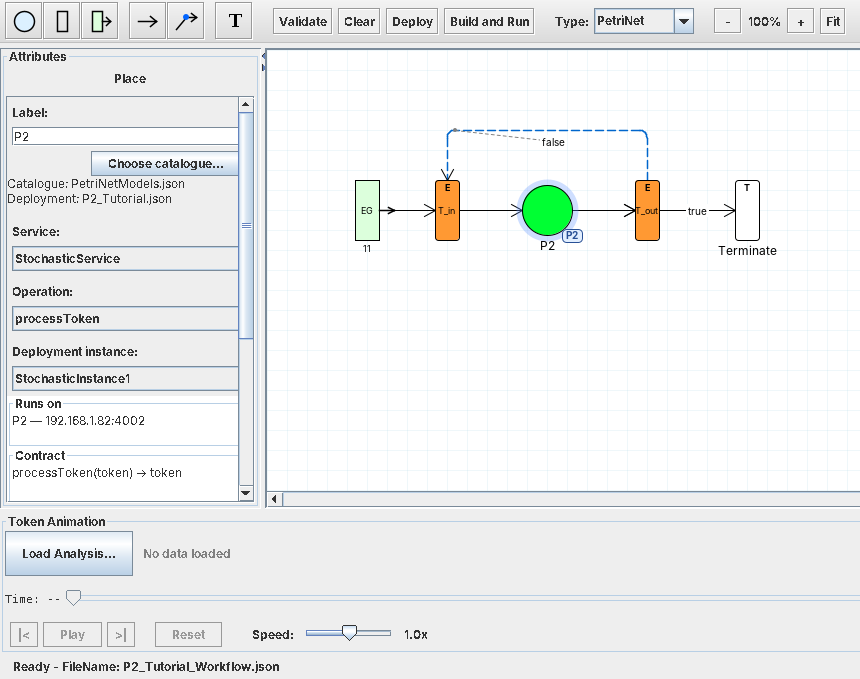
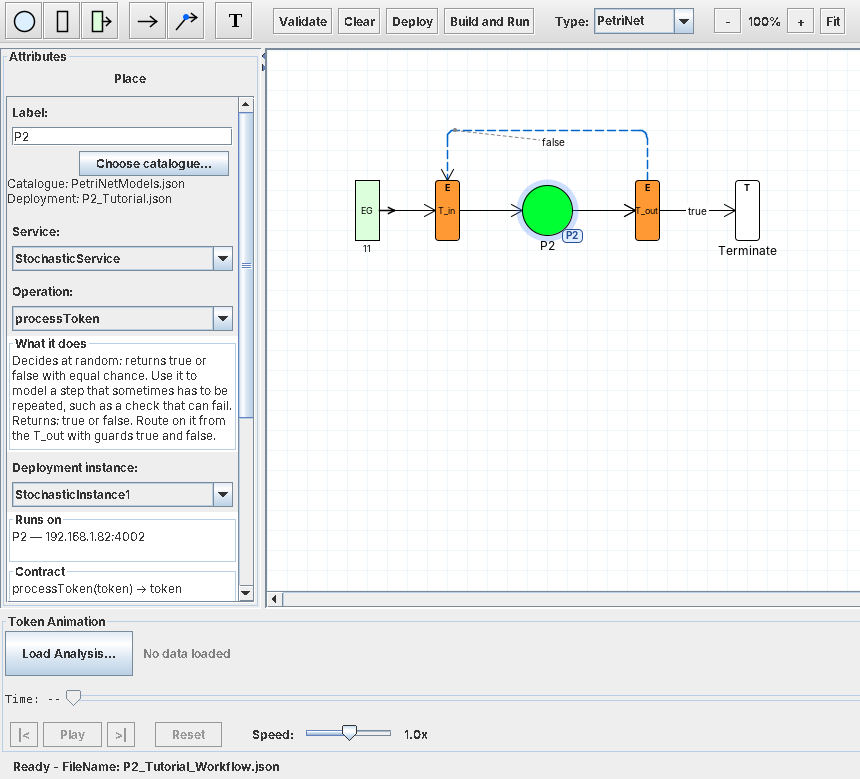
Say what each service does: catalogue descriptions shown in the editor
- Every catalogue operation now has a "description" (what it does) and a
  "returns" entry (its result and the values to route on), written from the
  implementations.
- Attributes panel: a "What it does" box under the Operation, sized to the
  wrapped text and re-measured when the panel is resized; Service and Operation
  choices show the description on hover.
- Deploy panel: Service and Operation cells and choices show it on hover.
- The Attributes panel now fits its scroll area's width, so long text wraps and
  the drop-down arrows are no longer clipped.
- ServiceRegistryCheck requires both entries for every catalogued operation;
  DeployFlowCheck checks the box is shown.
- Tutorial: points readers to the box; the incorrect "acceptance delay" note is removed.

Claude-Session: https://claude.ai/code/session_0151nDw2DdARiuD7yvK629N9

diff --git a/btsn.workflowEditor/src/com/editor/EditorFrame.java b/btsn.workflowEditor/src/com/editor/EditorFrame.java
@@ -81,7 +81,7 @@ public class EditorFrame extends JPanel {
         add(titleLabel, BorderLayout.NORTH);
         
         // Attributes panel
-        attributesPanel = new JPanel();
+        attributesPanel = new ViewportWidthPanel();
         attributesPanel.setLayout(new BoxLayout(attributesPanel, BoxLayout.Y_AXIS));
         JScrollPane scrollPane = new JScrollPane(attributesPanel);
         scrollPane.setVerticalScrollBarPolicy(JScrollPane.VERTICAL_SCROLLBAR_AS_NEEDED);
@@ -736,7 +736,7 @@ public class EditorFrame extends JPanel {
         source.setEditable(false); source.setOpaque(false); source.setLineWrap(true); source.setWrapStyleWord(true);
         source.setPreferredSize(new Dimension(220, 40)); source.setMinimumSize(new Dimension(0, 40)); source.setMaximumSize(new Dimension(Integer.MAX_VALUE, 55));
         source.setToolTipText(registry.description()); attributesPanel.add(source);
-        JComboBox<String> services = ServiceRegistry.choices(registry.services(), element.getService());
+        JComboBox<String> services = ServiceRegistry.choices(registry.services(), element.getService(), registry::describe);
         addComboField("Service:", services, element.getService());
         services.addActionListener(e -> {
             String value = (String)services.getSelectedItem();
@@ -747,8 +747,9 @@ public class EditorFrame extends JPanel {
             updateSelection(element); canvas.serviceContractChanged();
         });
         String op = element.getOperations().isEmpty() ? "" : element.getOperations().get(0);
-        JComboBox<String> operations = ServiceRegistry.choices(registry.operations(element.getService()), op);
+        JComboBox<String> operations = ServiceRegistry.choices(registry.operations(element.getService()), op, name -> registry.describe(element.getService(), name));
         addComboField("Operation:", operations, op);
+        addWhatItDoes(registry, element.getService(), op);
         operations.addActionListener(e -> {
             String value = (String)operations.getSelectedItem();
             if (!registry.operations(element.getService()).contains(value)) return;
@@ -790,6 +791,49 @@ public class EditorFrame extends JPanel {
             JTextArea warning = new JTextArea(String.join("\n", errors)); warning.setEditable(false); warning.setLineWrap(true); warning.setWrapStyleWord(true); warning.setForeground(Color.RED);
             warning.setBorder(BorderFactory.createTitledBorder("Unresolved service contract")); attributesPanel.add(warning);
         }
+    }
+
+    /** Fits the scroll area's width, so long text wraps instead of running under the scrollbar. */
+    private static final class ViewportWidthPanel extends JPanel implements Scrollable {
+        public Dimension getPreferredScrollableViewportSize() { return getPreferredSize(); }
+        public int getScrollableUnitIncrement(Rectangle visible, int orientation, int direction) { return 16; }
+        public int getScrollableBlockIncrement(Rectangle visible, int orientation, int direction) { return orientation == SwingConstants.VERTICAL ? visible.height : visible.width; }
+        public boolean getScrollableTracksViewportWidth() { return true; }
+        public boolean getScrollableTracksViewportHeight() { return false; }
+    }
+
+    /** The catalogue's description of the chosen service, shown without hovering. */
+    private void addWhatItDoes(ServiceRegistry registry, String service, String op) {
+        String text;
+        if (service == null || service.isEmpty()) text = "Choose a service to see what it does.";
+        else {
+            text = registry.describe(service, op);
+            if (text.isEmpty()) text = "The catalogue has no description for " + service + ".";
+        }
+        JTextArea box = new JTextArea(text); box.setEditable(false); box.setLineWrap(true); box.setWrapStyleWord(true);
+        box.setBorder(BorderFactory.createTitledBorder("What it does"));
+        box.setToolTipText(ServiceRegistry.tooltip(text));
+        // Measure the wrapped text at the panel's current width (220 before the panel is first shown).
+        Container viewport = attributesPanel.getParent();
+        int width = viewport != null && viewport.getWidth() > 40 ? viewport.getWidth() - 10 : 220;
+        box.setSize(width, Short.MAX_VALUE);
+        int height = box.getPreferredSize().height + 4;
+        fitHeight(box, 220, height);
+        // Re-measure when the panel is resized, so the box never clips or leaves a gap.
+        box.addComponentListener(new java.awt.event.ComponentAdapter() {
+            @Override public void componentResized(java.awt.event.ComponentEvent e) {
+                JTextArea measure = new JTextArea(box.getText()); measure.setLineWrap(true); measure.setWrapStyleWord(true);
+                measure.setFont(box.getFont()); measure.setBorder(box.getBorder());
+                measure.setSize(box.getWidth(), Short.MAX_VALUE);
+                int fitted = measure.getPreferredSize().height + 4;
+                if (fitted != box.getPreferredSize().height) { fitHeight(box, box.getWidth(), fitted); attributesPanel.revalidate(); }
+            }
+        });
+        attributesPanel.add(box);
+    }
+
+    private static void fitHeight(JComponent c, int width, int height) {
+        c.setPreferredSize(new Dimension(width, height)); c.setMinimumSize(new Dimension(0, height)); c.setMaximumSize(new Dimension(Integer.MAX_VALUE, height));
     }
 
     /** Keep the place's deployed instance when it offers the operation; otherwise take the contract from the catalogue. */

diff --git a/btsn.workflowEditor/src/com/editor/ServiceRegistry.java b/btsn.workflowEditor/src/com/editor/ServiceRegistry.java
@@ -13,6 +13,8 @@ import org.json.simple.parser.JSONParser;
 public final class ServiceRegistry {
     public static final class Contract {
         public String service, operation, output, resultType;
+        /** What the operation does and what it returns, in the catalogue's words (blank when not described). */
+        public String description = "", returns = "";
         public final List<String> inputs = new ArrayList<>();
     }
     public static final class Endpoint {
@@ -139,6 +141,7 @@ public final class ServiceRegistry {
             JSONObject definition = (JSONObject)item;
             if (!"active".equals(text(definition, "status"))) continue;
             Contract c = new Contract(); c.service = text(definition, "service"); c.operation = text(definition, "operation"); c.output = text(definition, "returnAttribute"); c.resultType = text(definition, "resultType");
+            c.description = text(definition, "description"); c.returns = text(definition, "returns");
             for (Object input : array(definition, "inputs")) c.inputs.add(input.toString());
             if (loaded.put(key(c.service, c.operation), c) != null) throw new IOException("Duplicate catalogue operation: " + c.service + "." + c.operation);
         }
@@ -158,6 +161,27 @@ public final class ServiceRegistry {
     public List<String> operations(String service) { List<String> values = new ArrayList<>(); for (Contract c : contracts.values()) if (c.service.equals(service)) values.add(c.operation); return values; }
     public List<String> instances(String service, String op) { Set<String> values = new LinkedHashSet<>(); for (Endpoint e : endpoints) if (e.service.equals(service) && (op == null || op.equals(e.operation))) values.add(e.instance); return new ArrayList<>(values); }
     public Contract contract(String service, String op) { return contracts.get(key(service, op)); }
+    /** What a service does: its one operation's description, or one line per operation. */
+    public String describe(String service) {
+        List<String> ops = operations(service);
+        if (ops.size() == 1) return describe(service, ops.get(0));
+        List<String> lines = new ArrayList<>();
+        for (String op : ops) { Contract c = contract(service, op); if (!c.description.isEmpty()) lines.add(op + ": " + c.description); }
+        return String.join("\n", lines);
+    }
+    /** What one operation does, followed by what it returns. */
+    public String describe(String service, String op) {
+        Contract c = contract(service, op);
+        if (c == null) return service == null || service.isEmpty() ? "" : describe(service);
+        if (c.description.isEmpty()) return "";
+        return c.description + (c.returns.isEmpty() ? "" : "\nReturns: " + c.returns);
+    }
+    /** Tooltip text that wraps instead of running off the screen. */
+    public static String tooltip(String text) {
+        if (text == null || text.isEmpty()) return null;
+        String html = text.replace("&", "&amp;").replace("<", "&lt;").replace(">", "&gt;").replace("\n", "<br>");
+        return "<html><div style='width:300px'>" + html + "</div></html>";
+    }
     /** Infrastructure node (e.g. "P1") that hosts a deployment instance, or "" when unknown or ambiguous. */
     public String nodeForInstance(String instance) {
         String node = "";
@@ -310,7 +334,9 @@ public final class ServiceRegistry {
         place.setServiceInstance(instance); place.setServiceOperations(selected);
     }
     /** Keep unresolved values visible without making them legitimate choices. */
-    public static JComboBox<String> choices(List<String> valid, String current) {
+    public static JComboBox<String> choices(List<String> valid, String current) { return choices(valid, current, null); }
+    /** As above; each choice also shows a description when hovered in the open list. */
+    public static JComboBox<String> choices(List<String> valid, String current, java.util.function.Function<String, String> describe) {
         JComboBox<String> combo = new JComboBox<>(); combo.addItem("");
         for (String value : valid) combo.addItem(value);
         if (current != null && !current.isEmpty() && !valid.contains(current)) combo.addItem(current);
@@ -321,9 +347,14 @@ public final class ServiceRegistry {
                 super.getListCellRendererComponent(list, value, index, selected, focus);
                 String name = value == null ? "" : value.toString();
                 if (!name.isEmpty() && !valid.contains(name)) { setText("Unresolved: " + name); if (!selected) setForeground(java.awt.Color.RED); }
+                setToolTipText(describe == null || name.isEmpty() || !valid.contains(name) ? null : tooltip(describe.apply(name)));
                 return this;
             }
         });
+        if (describe != null) {
+            Runnable tip = () -> { Object v = combo.getSelectedItem(); combo.setToolTipText(v == null || !valid.contains(v.toString()) ? null : tooltip(describe.apply(v.toString()))); };
+            combo.addActionListener(e -> tip.run()); tip.run();
+        }
         return combo;
     }
 }

diff --git a/btsn.workflowEditor/tests/com/editor/ServiceRegistryCheck.java b/btsn.workflowEditor/tests/com/editor/ServiceRegistryCheck.java
@@ -13,6 +13,23 @@ public final class ServiceRegistryCheck {
     public static void main(String[] args) throws Exception {
         File root = new File(args[0]).getCanonicalFile(), common = new File(root, "btsn.common");
         ServiceRegistry registry = new ServiceRegistry();
+        // Every catalogued operation says what it does and what it returns, so the editor can explain it.
+        List<Path> catalogues = new ArrayList<>();
+        try (java.util.stream.Stream<Path> walk = Files.walk(common.toPath().resolve("BusinessServiceDefinitions"))) { walk.filter(p -> p.toString().endsWith(".json")).forEach(catalogues::add); }
+        check(catalogues.size() >= 3, "Catalogues not found");
+        for (Path catalogue : catalogues) {
+            JSONObject data = (JSONObject)new JSONParser().parse(new String(Files.readAllBytes(catalogue), java.nio.charset.StandardCharsets.UTF_8));
+            for (Object item : (JSONArray)data.get("services")) {
+                JSONObject service = (JSONObject)item;
+                String name = service.get("service") + "." + service.get("operation");
+                for (String field : new String[] {"description", "returns"})
+                    check(service.get(field) instanceof String && !((String)service.get(field)).trim().isEmpty(), catalogue.getFileName() + ": " + name + " has no " + field);
+            }
+        }
+        registry.loadCatalogue(common.toPath().resolve("BusinessServiceDefinitions/healthcare/Healthcare.json").toFile());
+        check(registry.describe("RadiologyService").split("\n").length == 2, "A service with two operations should describe both");
+        check(registry.describe("TriageService", "processTriageAssessment").contains("\nReturns: "), "Operation description lacks its result");
+        check(ServiceRegistry.tooltip("a < b\nc").equals("<html><div style='width:300px'>a &lt; b<br>c</div></html>"), "Tooltip not escaped and wrapped");
         registry.loadDeployment(new File(common, "ServiceDeploymentFolder/petrinet/TrafficLightModels.json"));
         check(registry.services().equals(Arrays.asList("StochasticService")), "Petri-net dropdown contains another service");
         check(registry.instances("StochasticService", "processToken").size() == 6, "Repeated instances missing");
@@ -82,7 +99,7 @@ public final class ServiceRegistryCheck {
                 javax.imageio.ImageIO.write(image, "png", new File(args[1]));
             } catch (Exception ex) { throw new RuntimeException(ex); }
         });
-        System.out.println("PASS: seven workflow contract round trips, real dropdown repair, legacy/unknown references, JSON/Boolean adapter isolation, argument/result rejection and routing preservation");
+        System.out.println("PASS: every catalogue operation described, seven workflow contract round trips, real dropdown repair, legacy/unknown references, JSON/Boolean adapter isolation, argument/result rejection and routing preservation");
     }
     private static boolean contains(JComboBox<?> combo, String value) { for (int i=0;i<combo.getItemCount();i++) if(value.equals(combo.getItemAt(i))) return true; return false; }
     private static List<JComboBox<?>> combos(Container parent) { List<JComboBox<?>> result = new ArrayList<>(); for(Component c:parent.getComponents()) { if(c instanceof JComboBox) result.add((JComboBox<?>)c); else if(c instanceof Container) result.addAll(combos((Container)c)); } return result; }

diff --git a/btsn.workflowEditor/src/com/editor/InfrastructureDefinitionFrame.java b/btsn.workflowEditor/src/com/editor/InfrastructureDefinitionFrame.java
@@ -34,7 +34,9 @@ public class InfrastructureDefinitionFrame extends JFrame {
             else if (column == 2) values.addAll(serviceRegistry.operations(cap.service));
             else if (column == 6) { ServiceRegistry.Contract contract = serviceRegistry.contract(cap.service, cap.operation); if (contract != null && "boolean".equals(contract.resultType)) values.add("boolean-token"); }
             else return super.getCellEditor(row, column);
-            return new DefaultCellEditor(ServiceRegistry.choices(values, current));
+            java.util.function.Function<String, String> describe = column == 1 ? serviceRegistry::describe
+                : column == 2 ? (op -> serviceRegistry.describe(cap.service, op)) : null;
+            return new DefaultCellEditor(ServiceRegistry.choices(values, current, describe));
         }
     };
     private final JTable argumentTable = new JTable(argumentModel);
@@ -172,7 +174,8 @@ public class InfrastructureDefinitionFrame extends JFrame {
                 Capability cap = capabilities.get(row);
                 List<String> names = new ArrayList<>(); for (Argument argument : cap.arguments) names.add(argument.name);
                 List<String> errors = serviceRegistry.validateEndpoint(cap.service, cap.operation, cap.returnAttribute, names, cap.adapter);
-                setToolTipText(errors.isEmpty() ? null : String.join("; ", errors));
+                String described = column == 1 ? serviceRegistry.describe(cap.service) : column == 2 ? serviceRegistry.describe(cap.service, cap.operation) : "";
+                setToolTipText(!errors.isEmpty() ? String.join("; ", errors) : ServiceRegistry.tooltip(described));
                 if (!selected) setForeground(errors.isEmpty() ? table.getForeground() : Color.RED);
                 if ((column == 1 && !serviceRegistry.services().contains(cap.service)) || (column == 2 && !serviceRegistry.operations(cap.service).contains(cap.operation))) setText("Unresolved: " + value);
                 return this;

diff --git a/btsn.workflowEditor/tests/com/editor/DeployFlowCheck.java b/btsn.workflowEditor/tests/com/editor/DeployFlowCheck.java
@@ -160,6 +160,7 @@ public final class DeployFlowCheck {
                 List<String> texts = texts(attributes);
                 check(texts.contains("Choose catalogue...") && !texts.contains("Choose service deployment..."), "Attributes still ask for a deployment first");
                 check(texts.stream().anyMatch(t -> t.startsWith("P6")), "Attributes do not show the node: " + texts);
+                check(texts.stream().anyMatch(t -> t.startsWith("Decides at random") && t.contains("Returns: true or false")), "Attributes do not say what the service does: " + texts);
 
                 // Pictures for review: the canvas with node labels, and the Deploy panel.
                 canvas.setSize(1150, 560); canvas.setPreferredSize(new Dimension(1150, 560));
@@ -223,7 +224,7 @@ public final class DeployFlowCheck {
         TokenAnimator clean = new TokenAnimator(), ant = new TokenAnimator();
         clean.parseOutput(analysis); ant.parseOutput(prefixed);
         check(!clean.getEvents().isEmpty() && clean.getEvents().size() == ant.getEvents().size(), "Ant-prefixed analysis parsed differently: " + clean.getEvents().size() + " vs " + ant.getEvents().size());
-        System.out.println("PASS: catalogue-only design, right-click Deploy to, filled Deploy panel with Place column, two-way node edits, save links process and instances, reopen, existing deployment unchanged, Create Build and Run files, Ant-prefixed analysis replay");
+        System.out.println("PASS: catalogue-only design, right-click Deploy to, filled Deploy panel with Place column, two-way node edits, save links process and instances, reopen, existing deployment unchanged, Create Build and Run files, Ant-prefixed analysis replay, What it does");
     }
 
     private static int rowOf(JTable table, String place) {

diff --git a/Tutorial.md b/Tutorial.md
@@ -9,7 +9,7 @@ from ProcessEditor:
   back to P2.
 - **Observation**: Monitor records every step from outside the token path.
 
-![ProcessEditor with the P2 tutorial: EG11 feeds T_in_P2, place P2 runs StochasticService.processToken on node P2, T_out_P2 routes true to Terminate and false back to T_in_P2. The Attributes panel shows the catalogue, service, operation, deployment instance, the node P2 runs on and the contract processToken(token) → token.](images/p2-tutorial-design.png)
+![ProcessEditor with the P2 tutorial: EG11 feeds T_in_P2, place P2 runs StochasticService.processToken on node P2, T_out_P2 routes true to Terminate and false back to T_in_P2. The Attributes panel shows the catalogue, service, operation, a description of what the service does, the deployment instance, the node P2 runs on and the contract processToken(token) → token.](images/p2-tutorial-design.png)
 
 *The P2 tutorial process. P2 is selected. The badge on the place and the **Runs
 on** box show the node it is deployed to.*
@@ -76,15 +76,23 @@ of services and their operations that the hosts can run.
 1. **Catalogue**: the panel names the catalogue in use. If the **Service** list is empty, click **Choose catalogue...** and open
    [`BusinessServiceDefinitions/petrinet/PetriNetModels.json`](btsn.common/BusinessServiceDefinitions/petrinet/PetriNetModels.json).
    Once the process is saved under `ProcessDefinitionFolder/petrinet`, the editor selects this catalogue itself.
-2. **Service**: choose `StochasticService`. Its only operation, `processToken`, is
+2. **Service**: hover over each entry in the list to see what it does. Choose `StochasticService`. Its only operation, `processToken`, is
    selected for you.
-3. **Contract**: the box shows `processToken(token) → token`. The catalogue
+3. **What it does**: the box under the Operation says what the service does and what it returns, so you know how to route its result:
+
+   > Decides at random: returns true or false with equal chance. Use it to model a step that sometimes has to be repeated, such as a check that can fail.<br>
+   > Returns: true or false. Route on it from the T_out with guards true and false.
+
+4. **Contract**: the box shows `processToken(token) → token`. The catalogue
    supplies the arguments; you do not type them.
-4. **Runs on**: the box reads **Not deployed yet**. Where P2 runs is decided in [step 2](#2-deploy-the-process).
+5. **Runs on**: the box reads **Not deployed yet**. Where P2 runs is decided in [step 2](#2-deploy-the-process).
 
 Choosing a service does not create one. `StochasticService` is already packaged
 ([source](btsn.common/src/org/btsn/services/StochasticService.java)) and runs
 inside the generic host on whichever node you deploy P2 to.
+
+The descriptions come from the catalogue, where each service has a
+`description` and a `returns` entry. The Deploy panel shows the same text when you hover over a Service or Operation cell. When you add a service to a catalogue, describe it there as well; the editor checks require both entries.
 
 ### Connect the elements and set the guards
 
@@ -104,8 +112,7 @@ Use **Arrow (drag)**, or **Arrow (click waypoints)** to bend the return route.
   - T_in receives and buffers the token.
   - P2 invokes `processToken`.
   - T_out routes on the result: `false` repeats the visit with the same token, and `true` completes the workflow.
-- `StochasticService` returns `true` with probability 0.5.
-- It also adds a short acceptance delay, so timings reflect the demo service as well as the fabric.
+- `StochasticService` returns `true` with probability 0.5, so on average each workflow visits P2 twice.
 
 ### Validate and save
 

diff --git a/images/README.md b/images/README.md
@@ -73,7 +73,7 @@ painted from the editor's own windows at 100% zoom:
 
 | Image | Shows |
 |---|---|
-| `p2-tutorial-design.png` | ProcessEditor with `P2_Tutorial_Workflow.json` open and P2 selected: catalogue, service, operation, deployment instance, **Runs on** and contract in the Attributes panel; the node badge on the place |
+| `p2-tutorial-design.png` | ProcessEditor with `P2_Tutorial_Workflow.json` open and P2 selected: catalogue, service, operation, **What it does**, deployment instance, **Runs on** and contract in the Attributes panel; the node badge on the place |
 | `p2-tutorial-deploy.png` | The Deploy panel for that process: the read-only `SingleHost.json` nodes and the P2 capability row |
 | `p2-tutorial-build-and-run.png` | The Create Build and Run dialog with its defaults and the Write/Reuse/Replace summary |
 
